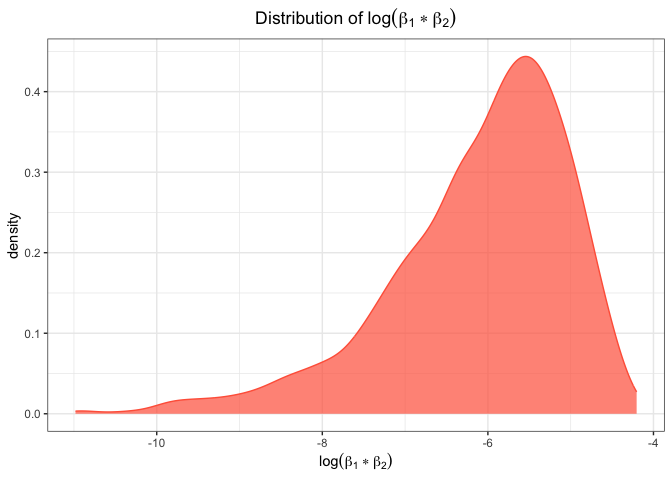
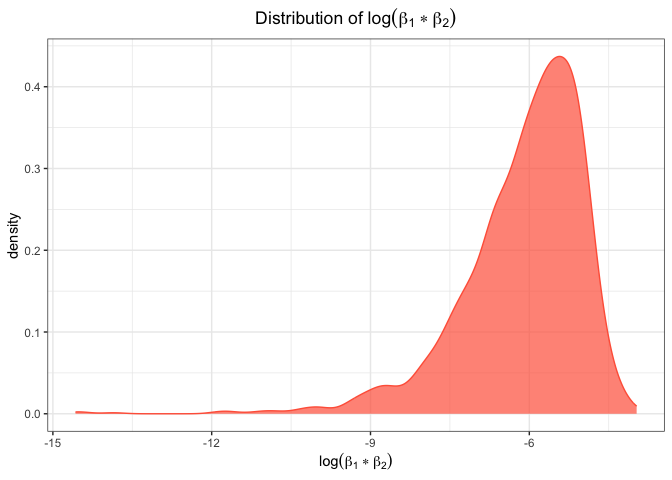
add NA ratio in problem2 & fix render bug

diff --git a/p8105_hw6_pt2632.md b/p8105_hw6_pt2632.md
@@ -1,6 +1,6 @@
 HW6
 ================
-2023-11-24
+2023-11-28
 
 ``` r
 library(tidyverse)
@@ -31,7 +31,9 @@ homicide = homicide |>
 ### Model fitting
 
 ``` r
-logit_model = glm(resolved ~ victim_age + victim_sex + victim_race, data = homicide, family = "binomial")
+logit_model = homicide |> 
+  filter(city_state == "Baltimore, MD") |>
+  glm(resolved ~ victim_age + victim_sex + victim_race, data = _, family = "binomial")
 broom::tidy(logit_model, conf.int = T) |>
   mutate(OR = exp(estimate),
          OR.conf.low = exp(conf.low),
@@ -43,7 +45,7 @@ broom::tidy(logit_model, conf.int = T) |>
 
 | term           |    OR | OR.conf.low | OR.conf.high |
 |:---------------|------:|------------:|-------------:|
-| victim_sexMale | 0.603 |       0.569 |        0.639 |
+| victim_sexMale | 0.426 |       0.324 |        0.558 |
 
 ``` r
 tidy_stats = function(city, df){
@@ -201,7 +203,7 @@ boot_straps |> ggplot(aes(x = log_beta1_beta2)) +
 ![](p8105_hw6_pt2632_files/figure-gfm/unnamed-chunk-6-1.png)<!-- -->
 Description: All values are less than 0. The distribution is
 left-skewed, which may be caused by the `NA` generated during the
-logarithm calculation.
+logarithm calculation. The `NA` ratio is 0.6736.
 
 ### Quantile for CI
 
@@ -213,8 +215,8 @@ ci = function(data){
 
 The 95% confidence interval for $r^2$ is (0.889, 0.94).
 
-The 95% confidence interval for $\log(\beta_1*\beta_2)$ is (-8.901,
--4.575).
+The 95% confidence interval for $\log(\beta_1*\beta_2)$ is (-8.939,
+-4.611).
 
 ## Problem 3
 
